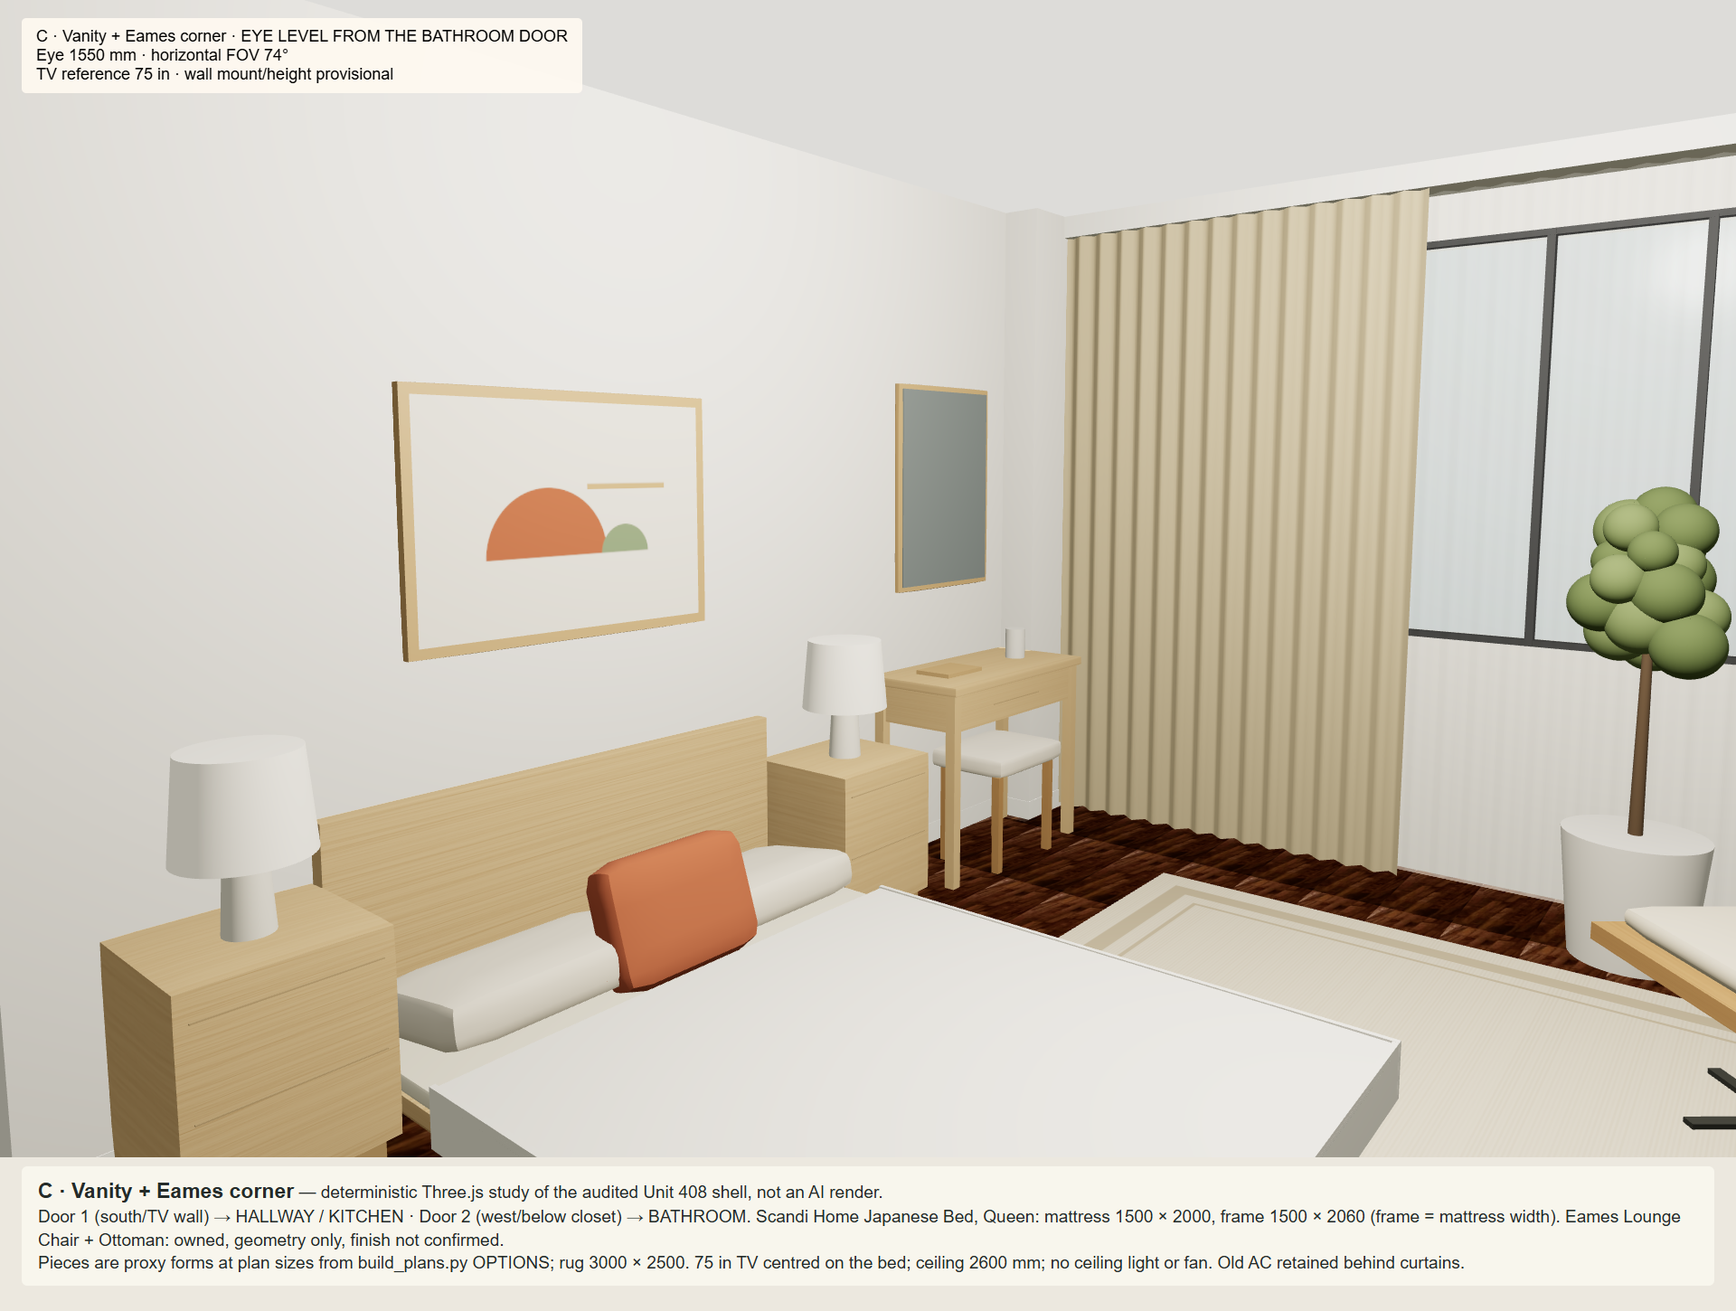
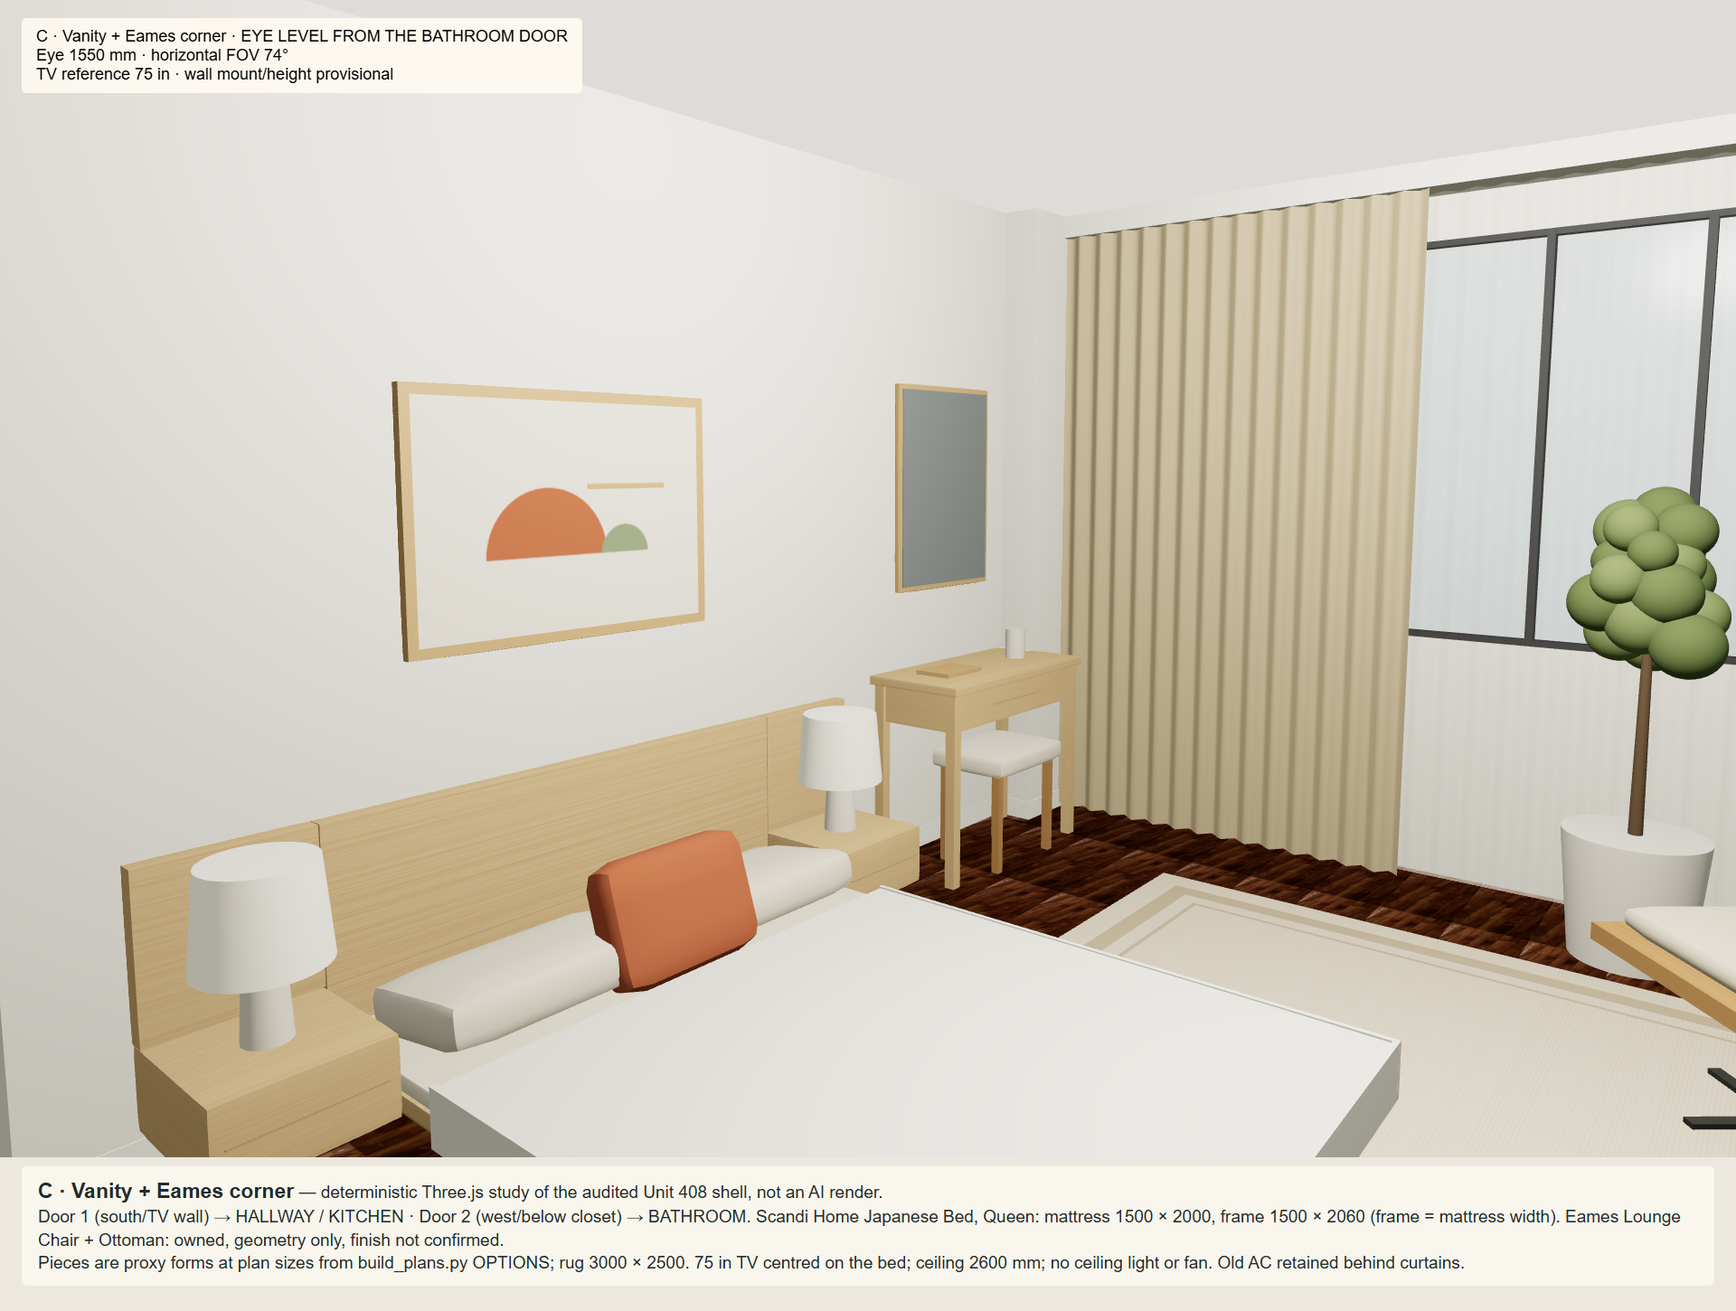
fix(queen): Model floating bedsides and the TV wall standoff
Addendum 3 from the plans session: Scandi floating bedsides (400 x 400,
one drawer, hung on the headboard's 400 | 1500 | 400 wings with the top
300 mm off the floor) replace the floor-standing tables, and the 75 in TV
body sits 70 mm off the wall so its west end clears the 59 mm wall step
at x 1793 in plans A, B and C. All 16 model views are re-rendered from
the synced OPTIONS (gate 16/16 PASS, 0.0 mm); every view stays WITHHELD.
Plan E's page text gains the TV-under-AC trade-off from the plans.

diff --git a/queen-oct28/index.html b/queen-oct28/index.html
@@ -18,6 +18,6 @@ figcaption{font-size:.85rem;color:#4d4339;margin-top:.3rem}.withheld figcaption{
 <p>Four layouts around the Scandi Home Japanese Bed, Queen (mattress 1500 x 2000), with room for the couple&#39;s own Eames lounge chair and ottoman, or a vanity. Bed, rug, curtains and walkways are to scale on the room model; each view is checked against that model before an AI style render is shown.</p>
 <p class="small">Day views only: night and golden-hour views do not exist yet for this set. Plan D (bed on the south wall) is excluded. Products beyond the bed are not scheduled yet; nothing here is a purchase list.</p>
 </header>
-<main><section class="scheme" id="plan-A"><h2><span>A</span> Eames corner</h2><p>Bed moves 350 mm west, toward the wardrobe. The Eames lounge chair and ottoman sit beside the TV console, turned 40° toward the bed.</p><p>For Isah: Eames chair + ottoman by the TV, angled to the bed.</p><ul><li>The 350 mm shift is what lets the ottoman stay in front of the chair and still leave about 0.65 m to walk to the window side of the bed.</li><li>Window side stays open; the plant fills the corner beside the right bedside.</li></ul><p class="small">Plan checks: 12 of 12 pass on the to-scale drawing.</p><div class="grid"><figure class="plan"><a href="assets/QA-room-plan.png"><img loading="lazy" src="assets/QA-room-plan.png" alt="Plan A, bird&#39;s-eye model view"></a><figcaption>Bird&#39;s-eye model view · plan A, true scale</figcaption></figure><figure class="withheld"><a href="assets/QA-room-entry.png"><img loading="lazy" src="assets/QA-room-entry.png" alt="Plan A · Entrance door · Day, model view"></a><figcaption><strong>Entrance door · Day</strong> · Deterministic room-model view at true scale, not an AI render (Entrance door · Day, eye 1.55 m). Render withheld: photoreal render staged behind the Codex image quota (resets 2 Nov 2026 14:08 PHT); the Eames chair finish must be confirmed by Ivan before the pass runs</figcaption></figure><figure class="withheld"><a href="assets/QA-room-bathroom.png"><img loading="lazy" src="assets/QA-room-bathroom.png" alt="Plan A · Bathroom door · Day, model view"></a><figcaption><strong>Bathroom door · Day</strong> · Deterministic room-model view at true scale, not an AI render (Bathroom door · Day, eye 1.55 m). Render withheld: photoreal render staged behind the Codex image quota (resets 2 Nov 2026 14:08 PHT); the Eames chair finish must be confirmed by Ivan before the pass runs</figcaption></figure><figure class="withheld"><a href="assets/QA-room-windowac.png"><img loading="lazy" src="assets/QA-room-windowac.png" alt="Plan A · Window corner · Day, model view"></a><figcaption><strong>Window corner · Day</strong> · Deterministic room-model view at true scale, not an AI render (Window corner · Day, eye 1.55 m). Render withheld: photoreal render staged behind the Codex image quota (resets 2 Nov 2026 14:08 PHT); the Eames chair finish must be confirmed by Ivan before the pass runs</figcaption></figure></div></section><section class="scheme" id="plan-B"><h2><span>B</span> Window vanity</h2><p>Bed moves 350 mm west, toward the wardrobe. A vanity sits on the north wall beside the window, lit from the side.</p><p>For Isah: Vanity 900 × 400 + stool, daylight from the right.</p><ul><li>Best make-up light: window to the side, never behind her.</li><li>Plant holds the south-east corner; the Eames can still go there later (see C).</li></ul><p class="small">Plan checks: 13 of 13 pass on the to-scale drawing.</p><div class="grid"><figure class="plan"><a href="assets/QB-room-plan.png"><img loading="lazy" src="assets/QB-room-plan.png" alt="Plan B, bird&#39;s-eye model view"></a><figcaption>Bird&#39;s-eye model view · plan B, true scale</figcaption></figure><figure class="withheld"><a href="assets/QB-room-entry.png"><img loading="lazy" src="assets/QB-room-entry.png" alt="Plan B · Entrance door · Day, model view"></a><figcaption><strong>Entrance door · Day</strong> · Deterministic room-model view at true scale, not an AI render (Entrance door · Day, eye 1.55 m). Render withheld: photoreal render staged behind the Codex image quota (resets 2 Nov 2026 14:08 PHT); the Eames chair finish must be confirmed by Ivan before the pass runs</figcaption></figure><figure class="withheld"><a href="assets/QB-room-bathroom.png"><img loading="lazy" src="assets/QB-room-bathroom.png" alt="Plan B · Bathroom door · Day, model view"></a><figcaption><strong>Bathroom door · Day</strong> · Deterministic room-model view at true scale, not an AI render (Bathroom door · Day, eye 1.55 m). Render withheld: photoreal render staged behind the Codex image quota (resets 2 Nov 2026 14:08 PHT); the Eames chair finish must be confirmed by Ivan before the pass runs</figcaption></figure><figure class="withheld"><a href="assets/QB-room-windowac.png"><img loading="lazy" src="assets/QB-room-windowac.png" alt="Plan B · Window corner · Day, model view"></a><figcaption><strong>Window corner · Day</strong> · Deterministic room-model view at true scale, not an AI render (Window corner · Day, eye 1.55 m). Render withheld: photoreal render staged behind the Codex image quota (resets 2 Nov 2026 14:08 PHT); the Eames chair finish must be confirmed by Ivan before the pass runs</figcaption></figure></div></section><section class="scheme" id="plan-C"><h2><span>C</span> Vanity + Eames corner</h2><p>Plan B plus the Eames lounge chair and ottoman beside the console, turned 40° toward the bed.</p><p>For Isah: Vanity by the window + Eames by the TV.</p><ul><li>Most for Isah, and still every walkway passes, ottoman in place.</li><li>The chair sits under the split AC (high on the wall); the plant moves to the window beside it.</li></ul><p class="small">Plan checks: 14 of 14 pass on the to-scale drawing.</p><div class="grid"><figure class="plan"><a href="assets/QC-room-plan.png"><img loading="lazy" src="assets/QC-room-plan.png" alt="Plan C, bird&#39;s-eye model view"></a><figcaption>Bird&#39;s-eye model view · plan C, true scale</figcaption></figure><figure class="withheld"><a href="assets/QC-room-entry.png"><img loading="lazy" src="assets/QC-room-entry.png" alt="Plan C · Entrance door · Day, model view"></a><figcaption><strong>Entrance door · Day</strong> · Deterministic room-model view at true scale, not an AI render (Entrance door · Day, eye 1.55 m). Render withheld: photoreal render staged behind the Codex image quota (resets 2 Nov 2026 14:08 PHT); the Eames chair finish must be confirmed by Ivan before the pass runs</figcaption></figure><figure class="withheld"><a href="assets/QC-room-bathroom.png"><img loading="lazy" src="assets/QC-room-bathroom.png" alt="Plan C · Bathroom door · Day, model view"></a><figcaption><strong>Bathroom door · Day</strong> · Deterministic room-model view at true scale, not an AI render (Bathroom door · Day, eye 1.55 m). Render withheld: photoreal render staged behind the Codex image quota (resets 2 Nov 2026 14:08 PHT); the Eames chair finish must be confirmed by Ivan before the pass runs</figcaption></figure><figure class="withheld"><a href="assets/QC-room-windowac.png"><img loading="lazy" src="assets/QC-room-windowac.png" alt="Plan C · Window corner · Day, model view"></a><figcaption><strong>Window corner · Day</strong> · Deterministic room-model view at true scale, not an AI render (Window corner · Day, eye 1.55 m). Render withheld: photoreal render staged behind the Codex image quota (resets 2 Nov 2026 14:08 PHT); the Eames chair finish must be confirmed by Ivan before the pass runs</figcaption></figure></div></section><section class="scheme" id="plan-E"><h2><span>E</span> Vanity as Isah&#x27;s bedside</h2><p>Bed moves 650 mm east toward the window. A long vanity replaces Isah&#x27;s bedside table; the Eames sits on the console&#x27;s door side.</p><p>For Isah: Vanity doubles as her nightstand + Eames.</p><ul><li>The ottoman lives at the foot of the bed. Pulled in front of the chair (dashed) it leaves only about 0.35 m to the window side of the bed, so slide it back after sitting.</li><li>Vanity is 3 m from the window: needs a lit mirror for make-up.</li></ul><p class="small">Plan checks: 13 of 14 pass on the to-scale drawing.</p><div class="grid"><figure class="plan"><a href="assets/QE-room-plan.png"><img loading="lazy" src="assets/QE-room-plan.png" alt="Plan E, bird&#39;s-eye model view"></a><figcaption>Bird&#39;s-eye model view · plan E, true scale</figcaption></figure><figure class="withheld"><a href="assets/QE-room-entry.png"><img loading="lazy" src="assets/QE-room-entry.png" alt="Plan E · Entrance door · Day, model view"></a><figcaption><strong>Entrance door · Day</strong> · Deterministic room-model view at true scale, not an AI render (Entrance door · Day, eye 1.55 m). Render withheld: photoreal render staged behind the Codex image quota (resets 2 Nov 2026 14:08 PHT); the Eames chair finish must be confirmed by Ivan before the pass runs</figcaption></figure><figure class="withheld"><a href="assets/QE-room-bathroom.png"><img loading="lazy" src="assets/QE-room-bathroom.png" alt="Plan E · Bathroom door · Day, model view"></a><figcaption><strong>Bathroom door · Day</strong> · Deterministic room-model view at true scale, not an AI render (Bathroom door · Day, eye 1.55 m). Render withheld: photoreal render staged behind the Codex image quota (resets 2 Nov 2026 14:08 PHT); the Eames chair finish must be confirmed by Ivan before the pass runs</figcaption></figure><figure class="withheld"><a href="assets/QE-room-windowac.png"><img loading="lazy" src="assets/QE-room-windowac.png" alt="Plan E · Window corner · Day, model view"></a><figcaption><strong>Window corner · Day</strong> · Deterministic room-model view at true scale, not an AI render (Window corner · Day, eye 1.55 m). Render withheld: photoreal render staged behind the Codex image quota (resets 2 Nov 2026 14:08 PHT); the Eames chair finish must be confirmed by Ivan before the pass runs</figcaption></figure></div></section>
+<main><section class="scheme" id="plan-A"><h2><span>A</span> Eames corner</h2><p>Bed moves 350 mm west, toward the wardrobe. The Eames lounge chair and ottoman sit beside the TV console, turned 40° toward the bed.</p><p>For Isah: Eames chair + ottoman by the TV, angled to the bed.</p><ul><li>The 350 mm shift is what lets the ottoman stay in front of the chair and still leave about 0.65 m to walk to the window side of the bed.</li><li>Window side stays open; the plant fills the corner beside the right bedside.</li></ul><p class="small">Plan checks: 12 of 12 pass on the to-scale drawing.</p><div class="grid"><figure class="plan"><a href="assets/QA-room-plan.png"><img loading="lazy" src="assets/QA-room-plan.png" alt="Plan A, bird&#39;s-eye model view"></a><figcaption>Bird&#39;s-eye model view · plan A, true scale</figcaption></figure><figure class="withheld"><a href="assets/QA-room-entry.png"><img loading="lazy" src="assets/QA-room-entry.png" alt="Plan A · Entrance door · Day, model view"></a><figcaption><strong>Entrance door · Day</strong> · Deterministic room-model view at true scale, not an AI render (Entrance door · Day, eye 1.55 m). Render withheld: photoreal render staged behind the Codex image quota (resets 2 Nov 2026 14:08 PHT); the Eames chair finish must be confirmed by Ivan before the pass runs</figcaption></figure><figure class="withheld"><a href="assets/QA-room-bathroom.png"><img loading="lazy" src="assets/QA-room-bathroom.png" alt="Plan A · Bathroom door · Day, model view"></a><figcaption><strong>Bathroom door · Day</strong> · Deterministic room-model view at true scale, not an AI render (Bathroom door · Day, eye 1.55 m). Render withheld: photoreal render staged behind the Codex image quota (resets 2 Nov 2026 14:08 PHT); the Eames chair finish must be confirmed by Ivan before the pass runs</figcaption></figure><figure class="withheld"><a href="assets/QA-room-windowac.png"><img loading="lazy" src="assets/QA-room-windowac.png" alt="Plan A · Window corner · Day, model view"></a><figcaption><strong>Window corner · Day</strong> · Deterministic room-model view at true scale, not an AI render (Window corner · Day, eye 1.55 m). Render withheld: photoreal render staged behind the Codex image quota (resets 2 Nov 2026 14:08 PHT); the Eames chair finish must be confirmed by Ivan before the pass runs</figcaption></figure></div></section><section class="scheme" id="plan-B"><h2><span>B</span> Window vanity</h2><p>Bed moves 350 mm west, toward the wardrobe. A vanity sits on the north wall beside the window, lit from the side.</p><p>For Isah: Vanity 900 × 400 + stool, daylight from the right.</p><ul><li>Best make-up light: window to the side, never behind her.</li><li>Plant holds the south-east corner; the Eames can still go there later (see C).</li></ul><p class="small">Plan checks: 13 of 13 pass on the to-scale drawing.</p><div class="grid"><figure class="plan"><a href="assets/QB-room-plan.png"><img loading="lazy" src="assets/QB-room-plan.png" alt="Plan B, bird&#39;s-eye model view"></a><figcaption>Bird&#39;s-eye model view · plan B, true scale</figcaption></figure><figure class="withheld"><a href="assets/QB-room-entry.png"><img loading="lazy" src="assets/QB-room-entry.png" alt="Plan B · Entrance door · Day, model view"></a><figcaption><strong>Entrance door · Day</strong> · Deterministic room-model view at true scale, not an AI render (Entrance door · Day, eye 1.55 m). Render withheld: photoreal render staged behind the Codex image quota (resets 2 Nov 2026 14:08 PHT); the Eames chair finish must be confirmed by Ivan before the pass runs</figcaption></figure><figure class="withheld"><a href="assets/QB-room-bathroom.png"><img loading="lazy" src="assets/QB-room-bathroom.png" alt="Plan B · Bathroom door · Day, model view"></a><figcaption><strong>Bathroom door · Day</strong> · Deterministic room-model view at true scale, not an AI render (Bathroom door · Day, eye 1.55 m). Render withheld: photoreal render staged behind the Codex image quota (resets 2 Nov 2026 14:08 PHT); the Eames chair finish must be confirmed by Ivan before the pass runs</figcaption></figure><figure class="withheld"><a href="assets/QB-room-windowac.png"><img loading="lazy" src="assets/QB-room-windowac.png" alt="Plan B · Window corner · Day, model view"></a><figcaption><strong>Window corner · Day</strong> · Deterministic room-model view at true scale, not an AI render (Window corner · Day, eye 1.55 m). Render withheld: photoreal render staged behind the Codex image quota (resets 2 Nov 2026 14:08 PHT); the Eames chair finish must be confirmed by Ivan before the pass runs</figcaption></figure></div></section><section class="scheme" id="plan-C"><h2><span>C</span> Vanity + Eames corner</h2><p>Plan B plus the Eames lounge chair and ottoman beside the console, turned 40° toward the bed.</p><p>For Isah: Vanity by the window + Eames by the TV.</p><ul><li>Most for Isah, and still every walkway passes, ottoman in place.</li><li>The chair sits under the split AC (high on the wall); the plant moves to the window beside it.</li></ul><p class="small">Plan checks: 14 of 14 pass on the to-scale drawing.</p><div class="grid"><figure class="plan"><a href="assets/QC-room-plan.png"><img loading="lazy" src="assets/QC-room-plan.png" alt="Plan C, bird&#39;s-eye model view"></a><figcaption>Bird&#39;s-eye model view · plan C, true scale</figcaption></figure><figure class="withheld"><a href="assets/QC-room-entry.png"><img loading="lazy" src="assets/QC-room-entry.png" alt="Plan C · Entrance door · Day, model view"></a><figcaption><strong>Entrance door · Day</strong> · Deterministic room-model view at true scale, not an AI render (Entrance door · Day, eye 1.55 m). Render withheld: photoreal render staged behind the Codex image quota (resets 2 Nov 2026 14:08 PHT); the Eames chair finish must be confirmed by Ivan before the pass runs</figcaption></figure><figure class="withheld"><a href="assets/QC-room-bathroom.png"><img loading="lazy" src="assets/QC-room-bathroom.png" alt="Plan C · Bathroom door · Day, model view"></a><figcaption><strong>Bathroom door · Day</strong> · Deterministic room-model view at true scale, not an AI render (Bathroom door · Day, eye 1.55 m). Render withheld: photoreal render staged behind the Codex image quota (resets 2 Nov 2026 14:08 PHT); the Eames chair finish must be confirmed by Ivan before the pass runs</figcaption></figure><figure class="withheld"><a href="assets/QC-room-windowac.png"><img loading="lazy" src="assets/QC-room-windowac.png" alt="Plan C · Window corner · Day, model view"></a><figcaption><strong>Window corner · Day</strong> · Deterministic room-model view at true scale, not an AI render (Window corner · Day, eye 1.55 m). Render withheld: photoreal render staged behind the Codex image quota (resets 2 Nov 2026 14:08 PHT); the Eames chair finish must be confirmed by Ivan before the pass runs</figcaption></figure></div></section><section class="scheme" id="plan-E"><h2><span>E</span> Vanity as Isah&#x27;s bedside</h2><p>Bed moves 650 mm east toward the window. A long vanity replaces Isah&#x27;s bedside table; the Eames sits on the console&#x27;s door side.</p><p>For Isah: Vanity doubles as her nightstand + Eames.</p><ul><li>The ottoman lives at the foot of the bed. Pulled in front of the chair (dashed) it leaves only about 0.35 m to the window side of the bed, so slide it back after sitting.</li><li>Vanity is 3 m from the window: needs a lit mirror for make-up.</li><li>The TV&#x27;s right 0.66 m sits under the split AC (high on the wall): ask the installer about drip and airflow.</li></ul><p class="small">Plan checks: 13 of 14 pass on the to-scale drawing.</p><div class="grid"><figure class="plan"><a href="assets/QE-room-plan.png"><img loading="lazy" src="assets/QE-room-plan.png" alt="Plan E, bird&#39;s-eye model view"></a><figcaption>Bird&#39;s-eye model view · plan E, true scale</figcaption></figure><figure class="withheld"><a href="assets/QE-room-entry.png"><img loading="lazy" src="assets/QE-room-entry.png" alt="Plan E · Entrance door · Day, model view"></a><figcaption><strong>Entrance door · Day</strong> · Deterministic room-model view at true scale, not an AI render (Entrance door · Day, eye 1.55 m). Render withheld: photoreal render staged behind the Codex image quota (resets 2 Nov 2026 14:08 PHT); the Eames chair finish must be confirmed by Ivan before the pass runs</figcaption></figure><figure class="withheld"><a href="assets/QE-room-bathroom.png"><img loading="lazy" src="assets/QE-room-bathroom.png" alt="Plan E · Bathroom door · Day, model view"></a><figcaption><strong>Bathroom door · Day</strong> · Deterministic room-model view at true scale, not an AI render (Bathroom door · Day, eye 1.55 m). Render withheld: photoreal render staged behind the Codex image quota (resets 2 Nov 2026 14:08 PHT); the Eames chair finish must be confirmed by Ivan before the pass runs</figcaption></figure><figure class="withheld"><a href="assets/QE-room-windowac.png"><img loading="lazy" src="assets/QE-room-windowac.png" alt="Plan E · Window corner · Day, model view"></a><figcaption><strong>Window corner · Day</strong> · Deterministic room-model view at true scale, not an AI render (Window corner · Day, eye 1.55 m). Render withheld: photoreal render staged behind the Codex image quota (resets 2 Nov 2026 14:08 PHT); the Eames chair finish must be confirmed by Ivan before the pass runs</figcaption></figure></div></section>
 <section class="scheme"><h2>Before ordering</h2><p>The bed frame is 1500 mm wide (frame = mattress width on Scandi Home&#39;s size chart). The Eames chair and ottoman are the couple&#39;s own; their finish is not confirmed, so the model views show geometry only. The ceiling is 2600 mm in the model, not taped. Views marked withheld show the true-scale model view because their render did not pass QA.</p></section>
 </main></body></html>
